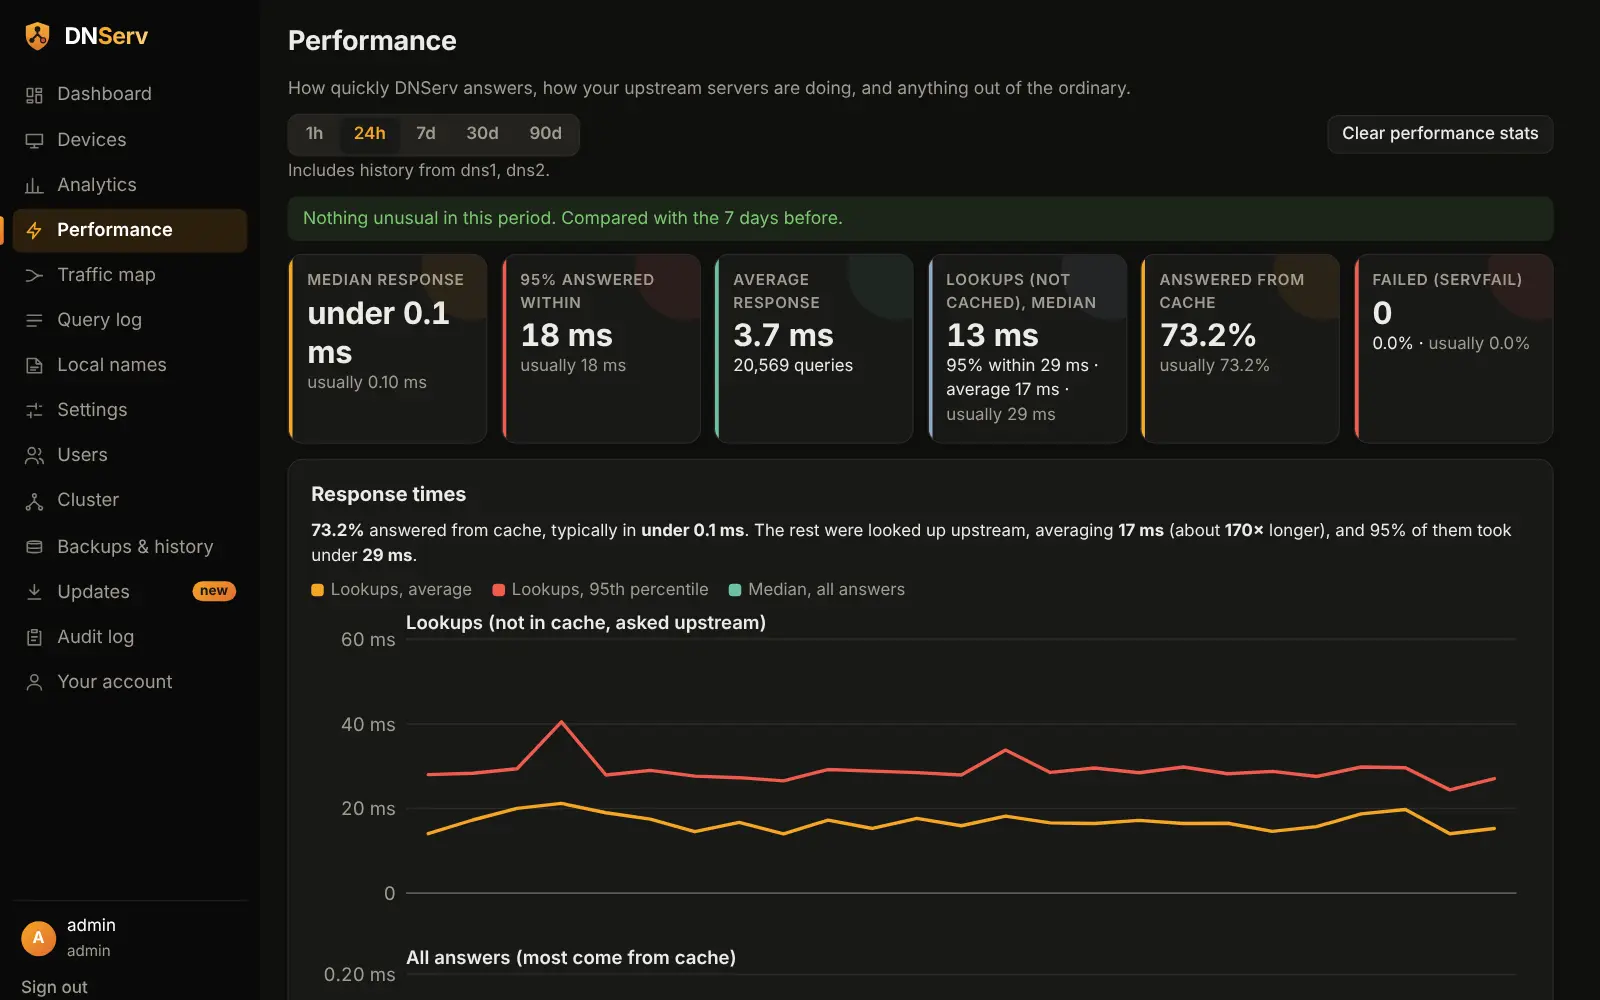
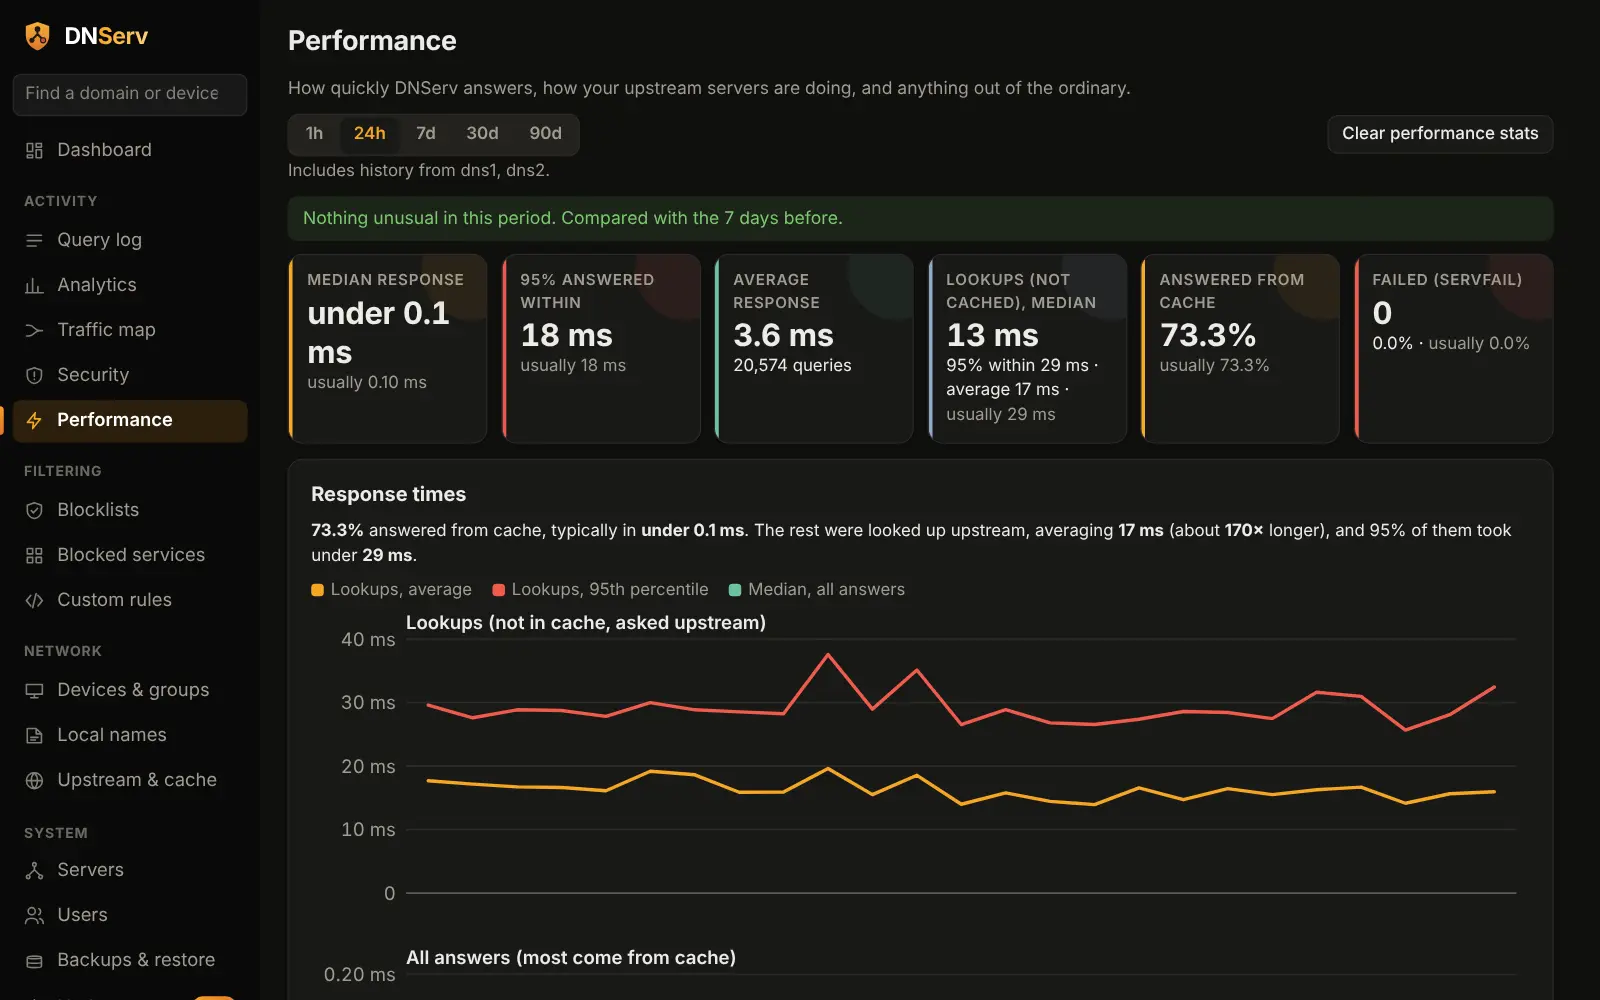
Retake screenshots for the grouped menu and Settings pages
- Every docs, README and website screenshot retaken on the current UI
  (grouped menu, Settings split into pages, Security page).
- New: Security page, Blocklists page, menu search screenshots; README
  gallery and website slideshow show them (Spots threats now uses the
  Security page, new Blocklists slide).
- install.md: the menu's groups and pages, and the menu search.
- Wizard screenshot shows the protection levels' list names.

Claude-Session: https://claude.ai/code/session_01KvRQSFwDjsFxfZhJ8FFcdQ

diff --git a/site/index.html b/site/index.html
@@ -145,7 +145,8 @@ footer .wrap { display: flex; gap: 16px; flex-wrap: wrap; justify-content: space
       <figure class="slide" data-title="One-click updates" data-text="See what's new, then update every server one at a time, with a backup first and rollback in one click."><img data-src="img/updates.webp" alt="One-click updates" decoding="async"></figure>
       <figure class="slide" data-title="Backups off the server" data-text="Encrypted backups on a schedule, copied to a network share or S3 storage. Nothing to mount."><img data-src="img/backups.webp" alt="Backups off the server" decoding="async"></figure>
       <figure class="slide" data-title="Rules per device" data-text="Groups like Kids get their own blocklists, blocked services, safe search, and schedules for bedtime or homework."><img data-src="img/group.webp" alt="Rules per device" decoding="async"></figure>
-      <figure class="slide" data-title="Spots threats" data-text="Every lookup is checked against malware and phishing feeds, and each score shows how it adds up."><img data-src="img/scoring.webp" alt="Spots threats" decoding="async"></figure>
+      <figure class="slide" data-title="Spots threats" data-text="Every lookup is checked against malware and phishing feeds. The Security page shows what got through, who reached it, and blocks it in one click."><img data-src="img/security.webp" alt="Spots threats" decoding="async"></figure>
+      <figure class="slide" data-title="Blocklists" data-text="Pick a protection level, add categories like gambling or smart TV tracking, or any list you like."><img data-src="img/blocklists.webp" alt="Blocklists" decoding="async"></figure>
     </div>
     <div class="cap" aria-live="polite"></div>
     <div class="ctl"><button class="arrow prev" type="button" aria-label="Previous">&#8249;</button><div class="dots"></div><button class="arrow next" type="button" aria-label="Next">&#8250;</button></div>

diff --git a/README.md b/README.md
@@ -62,11 +62,12 @@ Then add the second server as your router's second DNS server. For a trusted cer
 
 | | |
 |---|---|
-| <img src="docs/images/security.png" alt="Security card" width="420"><br>**Security** says whether anything risky got through, and who reached it | <img src="docs/images/traffic-map.png" alt="Traffic map" width="420"><br>**Traffic map** follows lookups from devices to servers to services |
+| <img src="docs/images/security-page.png" alt="Security page" width="420"><br>**Security** says whether anything risky got through, who reached it, and every risky domain | <img src="docs/images/traffic-map.png" alt="Traffic map" width="420"><br>**Traffic map** follows lookups from devices to servers to services |
 | <img src="docs/images/query-log-paused.png" alt="Query log, paused" width="420"><br>**Query log** searches every server's history, and holds still while you read | <img src="docs/images/analytics.png" alt="Analytics" width="420"><br>**Analytics** shows top domains, what blocked them, and busy devices |
 | <img src="docs/images/performance.png" alt="Performance" width="420"><br>**Performance** shows response times, upstream health and anything unusual | <img src="docs/images/cluster.png" alt="Cluster" width="420"><br>**Servers** shows your nodes, with leader controls and join codes |
 | <img src="docs/images/group.png" alt="Group with schedules" width="420"><br>**Groups** have their own blocklists, blocked services, safe search and schedules | <img src="docs/images/scoring.png" alt="Tune risk scoring" width="420"><br>**Risk scoring** explains every score, with presets and a preview when you tune it |
 | <img src="docs/images/updates.png" alt="Updates" width="420"><br>**Updates** shows what's new and updates every server one at a time | <img src="docs/images/backups.png" alt="Backups" width="420"><br>**Backups** go to each server, a network share or S3 storage, encrypted |
+| <img src="docs/images/blocklists.png" alt="Blocklists" width="420"><br>**Blocklists** pick a protection level, add categories or any list | <img src="docs/images/menu-search.png" alt="Menu search" width="420"><br>**Find** any domain or device from the menu |
 | <img src="docs/images/devices-search.png" alt="Device search" width="420"><br>**Devices** search forgives typos | <img src="docs/images/dashboard-light.png" alt="Light theme" width="420"><br>**Light theme**, which follows your system setting |
 
 ## Documentation

diff --git a/docs/install.md b/docs/install.md
@@ -102,10 +102,23 @@ container and run the same command again. The data volume keeps everything.
 
 ## The dashboard
 
-The dashboard has pages for status, checking and blocking domains,
-devices, recent queries, settings,
-users (admins), the audit log (admins), and your own password, sessions
-and API tokens. It is a small built-in page with no external scripts or
+The menu starts with the **Dashboard**, then four groups:
+
+| Group | Pages |
+|---|---|
+| Activity | Query log, Analytics, Traffic map, Security, Performance |
+| Filtering | Blocklists, Blocked services, Custom rules |
+| Network | Devices & groups, Local names, Upstream & cache |
+| System | Servers, Users, Backups & restore, Updates, Risk scoring, Audit log, General |
+
+Each person sees only the pages their permissions allow. The search box at
+the top of the menu finds a device (forgiving typos) or tells you whether a
+domain is blocked, by what, and who looked it up. Clicking your name opens
+your own password, two-factor, passkeys, sessions and API tokens.
+
+<p align="center"><img src="images/menu-search.png" alt="Finding a device from the menu" width="700"></p>
+
+The dashboard is a small built-in page with no external scripts or
 fonts, so it works without internet access. Port 8080 is plain HTTP until
 you turn on HTTPS under System → General → Dashboard HTTPS (see
 [Dashboard HTTPS](https.md)), or put it behind a reverse proxy with HTTPS

diff --git a/docs/risk-scoring.md b/docs/risk-scoring.md
@@ -6,7 +6,7 @@ feeds and a few checks on the name itself, and gives it a risk score from
 Dashboard, the Security page and the Query log point out, so you can decide what
 to block.
 
-<p align="center"><img src="images/security.png" alt="Security card on the Dashboard" width="800"></p>
+<p align="center"><img src="images/security-page.png" alt="Security page" width="800"></p>
 
 ## What you see
 
@@ -18,6 +18,8 @@ to block.
 - **Dashboard → Security.** A verdict for the period: "All clear: nothing
   risky got through", or how many high-risk domains your devices got
   answers for, who reached them, and how many threats were blocked anyway.
+
+  <img src="images/security.png" alt="Security card on the Dashboard" width="500">
   **Needs attention** lists each one with why it's risky, the devices
   (each opens its Query log) and when, and three buttons:
   - **Block** blocks it and its subdomains for every device.
